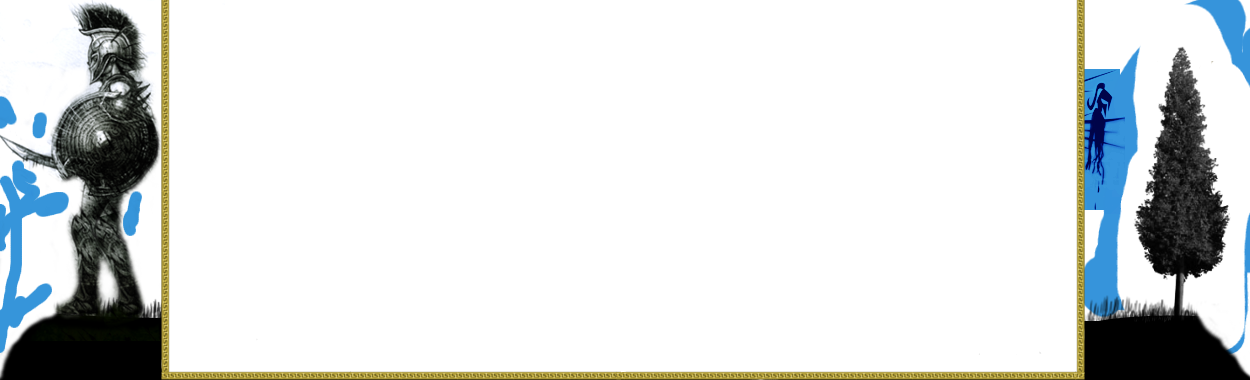
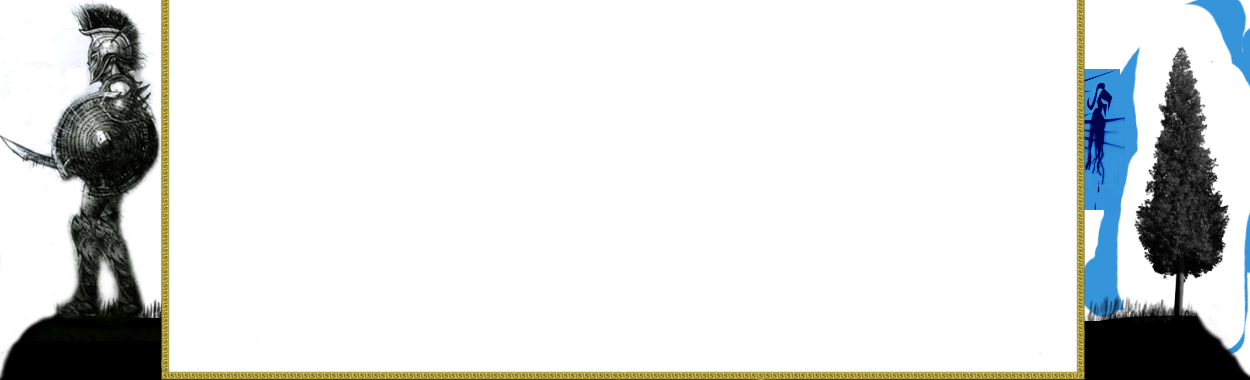
passage en jpg

Changed region(s): [[0.0, 0.4053, 0.0624, 0.9263], [0.0936, 0.4921, 0.1248, 0.6368], [0.0, 0.2605, 0.0624, 0.3474]]

diff --git a/design/v4/deco/design.css b/design/v4/deco/design.css
@@ -366,7 +366,7 @@ footer nav a {
 
 #home {
 	margin-top:50px;
-	background-image:url('sous_menu.png'), url('design_bas.png'), url('font_design.png');
+	background-image:url('sous_menu.png'), url('design_bas.jpg'), url('font_design.png');
 	background-position: 0% 0%, bottom, 0% 0%;
 	background-repeat: no-repeat, no-repeat, repeat;
 	padding-bottom: 7px;
